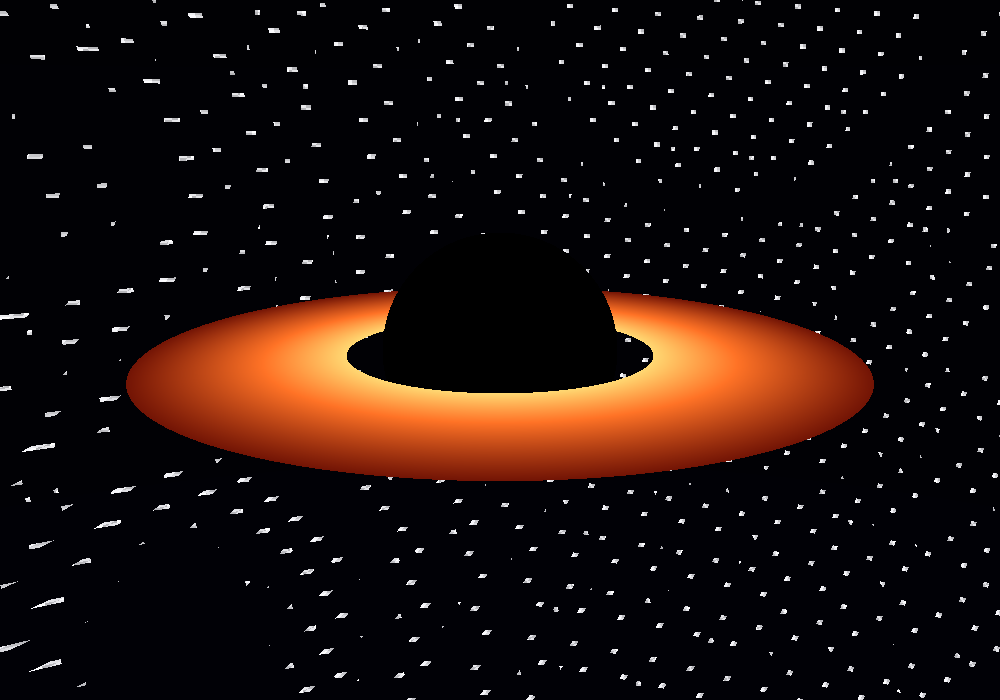
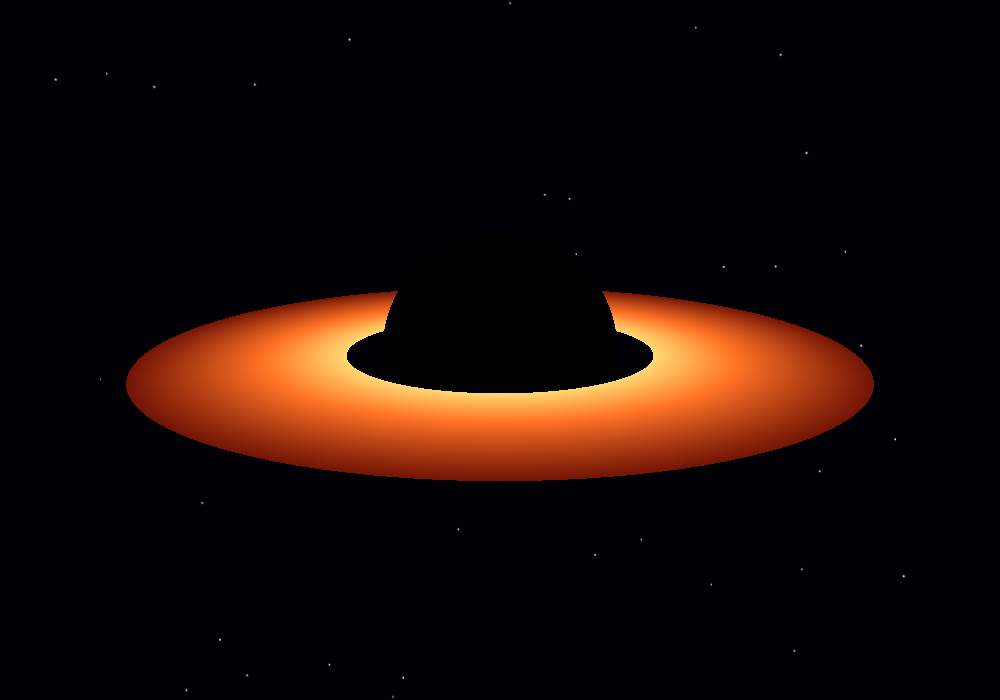
step 4 v3: added birghtness falloff

diff --git a/raystep4.py b/raystep4.py
@@ -108,35 +108,56 @@ def hash_direction(d):
     x = np.sin(np.dot(d, np.array([12.9898, 78.233, 37.719])))
     return x - np.floor(x)
 
-
 def starfield(ray_dir):
     d = normalize(ray_dir)
-
-    # dark background
     base = np.array([0.0, 0.0, 0.02], dtype=np.float32)
 
     # spherical coordinates
-    theta = np.arctan2(d[2], d[0])      # [-pi, pi]
-    phi = np.arccos(np.clip(d[1], -1, 1))  # [0, pi]
+    theta = np.arctan2(d[2], d[0])          # [-pi, pi]
+    phi = np.arccos(np.clip(d[1], -1, 1))   # [0, pi]
 
-    # higher-resolution UV-like coordinates
     u = theta / (2 * np.pi) + 0.5
     v = phi / np.pi
 
-    # discrete cell
-    gx = int(u * 1200)
-    gy = int(v * 600)
+    # star grid resolution
+    grid_w = 400
+    grid_h = 200
 
-    # deterministic pseudo-random hash
-    h = np.sin(gx * 127.1 + gy * 311.7) * 43758.5453
-    h = h - np.floor(h)
+    gx = int(u * grid_w)
+    gy = int(v * grid_h)
 
-    color = base.copy()
+    fu = u * grid_w - gx   # local coord in cell [0,1)
+    fv = v * grid_h - gy
 
-    if h > 0.9985:
-        brightness = 0.7 + 0.3 * ((np.sin(gx * 269.5 + gy * 183.3) * 12345.678) % 1)
-        color += brightness * np.array([1.0, 1.0, 1.0], dtype=np.float32)
+    # deterministic hash helpers
+    def hash2(x, y):
+        h = np.sin(x * 127.1 + y * 311.7) * 43758.5453
+        return h - np.floor(h)
 
+    def hash1(x, y):
+        h = np.sin(x * 269.5 + y * 183.3) * 12345.6789
+        return h - np.floor(h)
+
+    # only some cells contain stars
+    star_prob = hash2(gx, gy)
+    if star_prob < 0.985:
+        return base
+
+    # random star center inside the cell
+    su = hash2(gx + 17, gy + 29)
+    sv = hash2(gx + 53, gy + 71)
+
+    dx = fu - su
+    dy = fv - sv
+    dist2 = dx * dx + dy * dy
+
+    # gaussian-like falloff
+    brightness = np.exp(-dist2 * 250.0)
+
+    # random star intensity
+    intensity = 0.6 + 0.4 * hash1(gx, gy)
+
+    color = base + brightness * intensity * np.array([1.0, 1.0, 1.0], dtype=np.float32)
     return np.clip(color, 0, 1)
 
 
